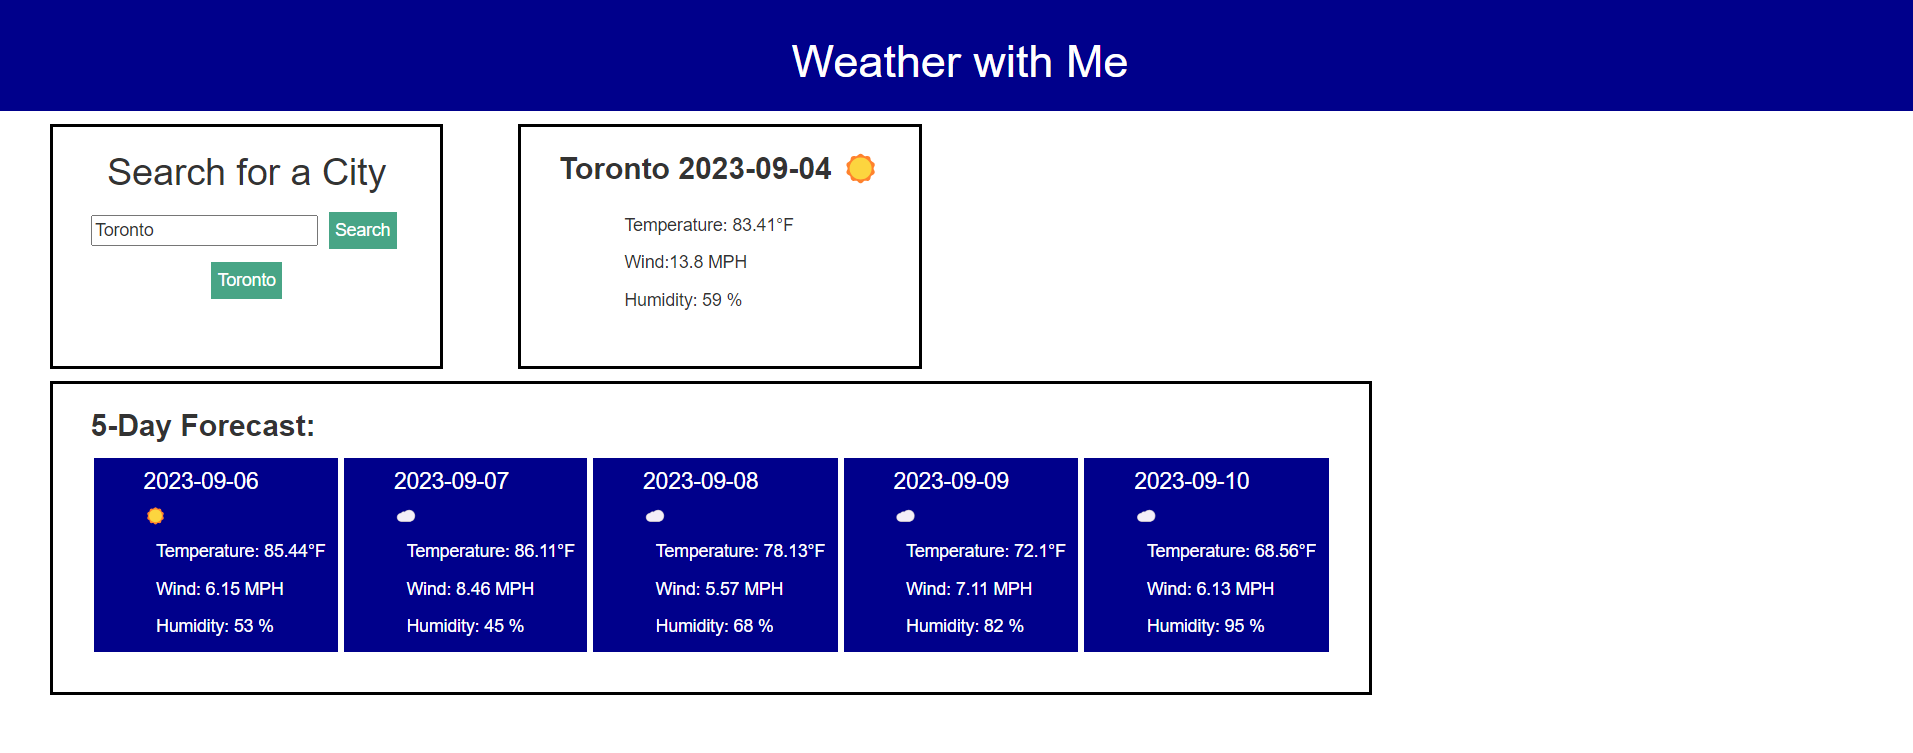
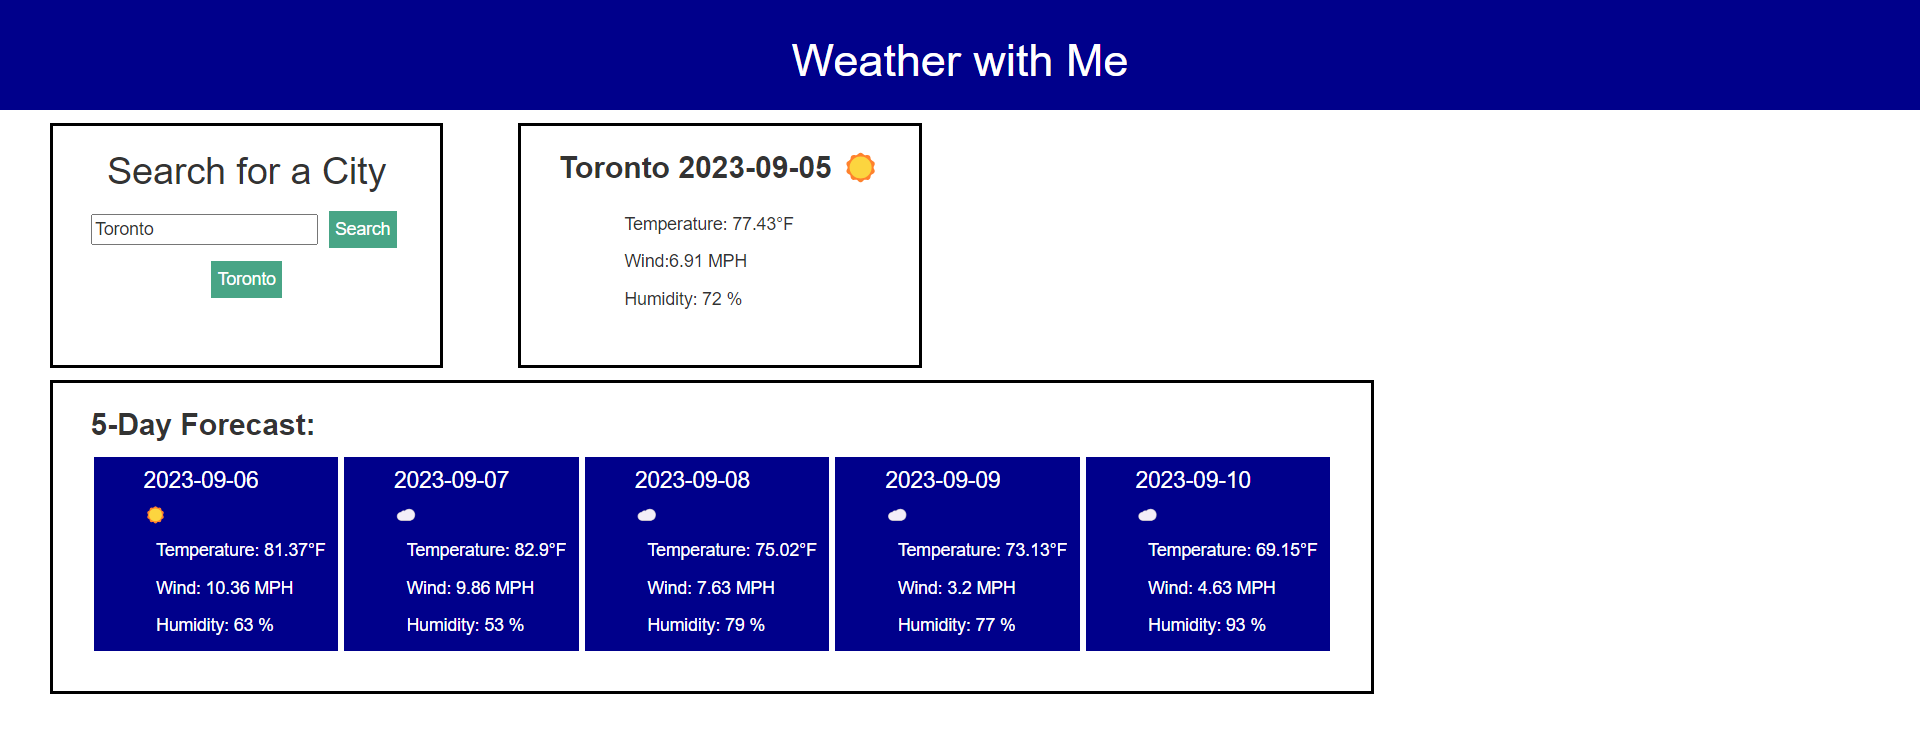
Updated README with changed image

diff --git a/README.md b/README.md
@@ -1,16 +1,17 @@
 # Weather-with-me
+
 ## Description
-This application is meant to help people with trouble organizing their tasks during their work day. If they are going through a lot of their day, this planner can help them keep everything organized and saved for future reference.
+I have created a Weather finder for any city the user wants to know. It will display today's weather, or current weather of the city searched and the future weather for 5 days in advance. It displays the name of the city, the date, the temperature, the wind and the humidity of the day. It also saves the future search.
 
 ![Webpage](./assets/images/weather.png)
 
 [Go to Website here](https://ari07-ari.github.io/Weather-with-me/)
 
 ## Installation
-I created a repository that I later cloned into my computer. I copied the develop folder and then moved the files into their folders, and then proceeded to code.
+The first step was the creation of the repo. Then create the folders for each section and their files, html, javascript and css. 
 
 ## Usage
-The usage of this web application is to help the user plan and organize their activities in an hour-based schedule. The hours go from 9am to 5pm, and they can save their events and will main until they decide to remove them.
+The way to use this web application is by entering (writing) the city that the user wants to search. Then 2 blocks will appear showing the weather conditions for the current day and the next 5 days. It helps people find the weather in everywhere the world. If the user wonders how the weather is in another city, just search it up, easy as that.
 
 ## Credits
 The University of Toronto,
